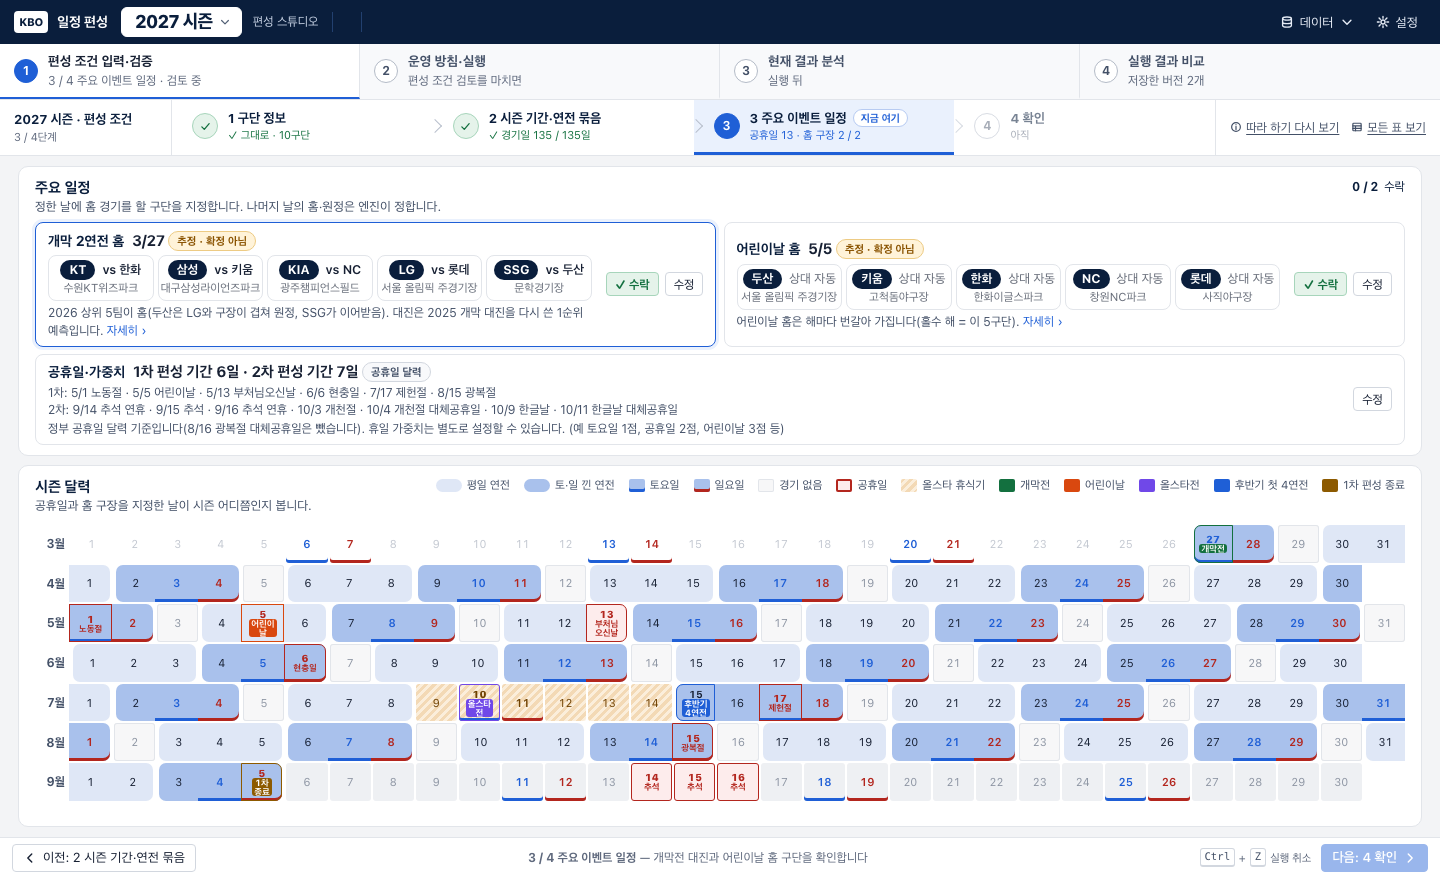
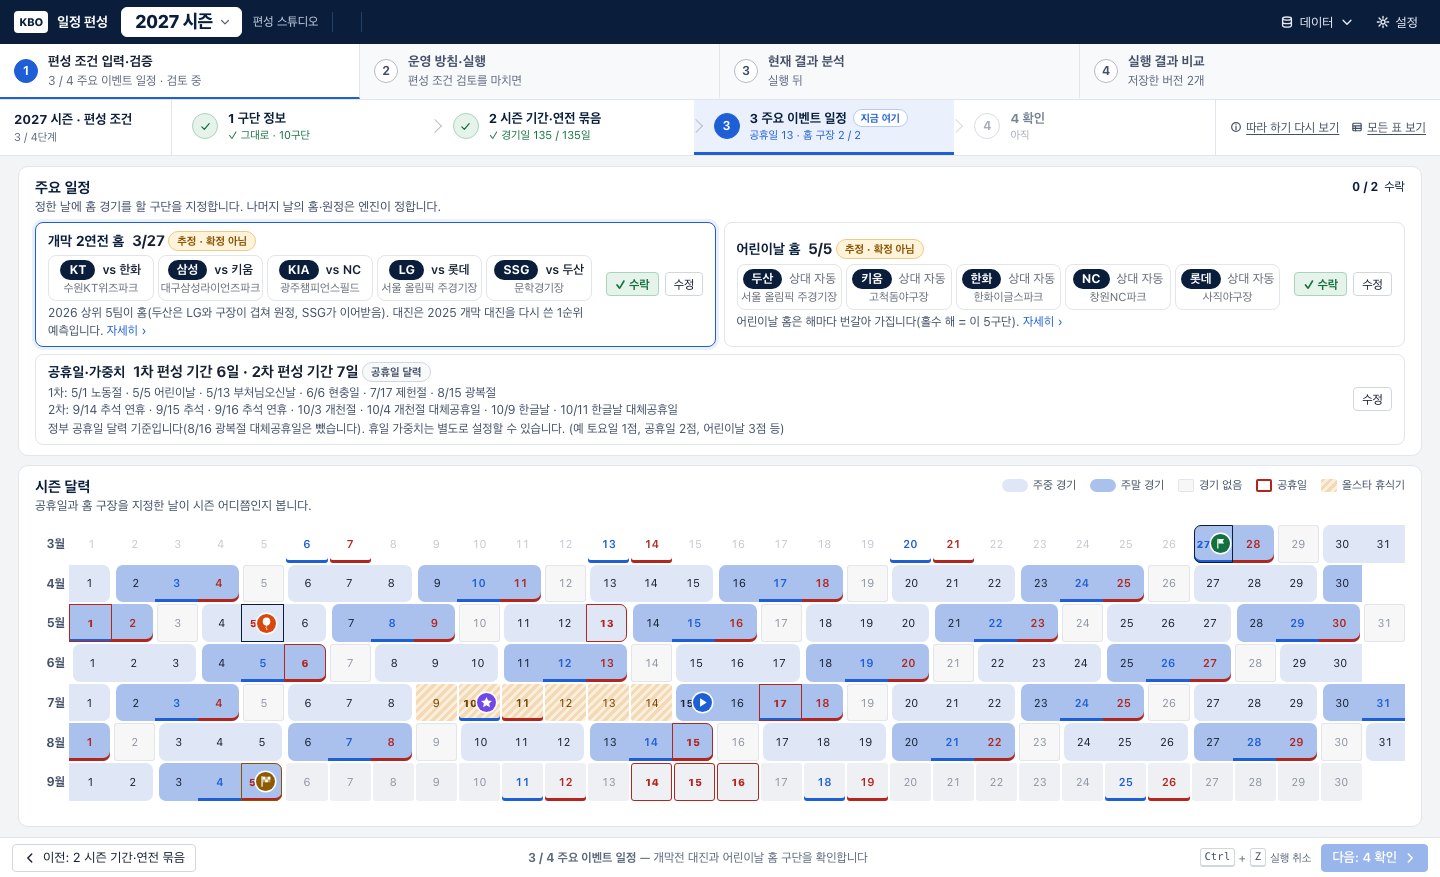
시즌 달력 범례 정리와 이벤트 그림 배지
- 연전 색 범례 이름: 「주중 경기」·「주말 경기」(달력 칸에 올렸을 때 글도 같게)
- 3단계·4 확인 달력 범례에서 토요일·일요일, 개막전·어린이날·올스타전·후반기 첫 4연전·1차 편성 종료를 뺌
- 대신 칸 안의 글자를 동그란 색 배지 그림으로: 개막전 깃발, 어린이날 풍선, 올스타전 별, 후반기 첫 4연전 ▶, 1차 편성 종료 체크무늬 깃발(이름은 칸에 올리면 나옴)
- 공휴일은 이름 글자 없이 빨간 테두리 + 빨간 숫자(연전 띠 색은 그대로)

diff --git a/ui/app/studio/season-calendar.js b/ui/app/studio/season-calendar.js
@@ -363,7 +363,15 @@
 
   // ───────── 가운데 달력 ─────────
   /** 달력 칸 글자: 세 글자까지는 한 줄, 넷 이상이면 두 줄(띄어쓰기가 있으면 거기서, 없으면 세 글자 뒤에서) */
-  const twoLines = (t) => { if (t.replace(/\s/g, '').length <= 3) return esc(t); const sp = t.indexOf(' '), k = sp > 0 ? sp : 3; return esc(t.slice(0, k)) + '<br>' + esc(t.slice(sp > 0 ? k + 1 : k)); };
+  // 3단계·4 확인 보기 달력의 이벤트 표시: 글자 대신 동그란 색 배지 안의 흰 그림(이름은 칸에 올리면 나온다). 공휴일은 그림 없이 빨간 칸
+  const MARK_SVG = {
+    'e-op': '<path d="M4 2h1.4v12H4z"/><path d="M5.4 2.5h7.1l-1.9 2.75 1.9 2.75H5.4z"/>', // 개막전 = 깃발
+    'e-ch': '<ellipse cx="8" cy="5.6" rx="4.6" ry="5"/><path d="M6.8 10.3h2.4L8 11.8z"/><path d="M8 11.8q-1.6 1.1 0 2.1t0 1.9" fill="none" stroke="currentColor" stroke-width="1.2"/>', // 어린이날 = 풍선
+    'e-as': '<path d="M8 1.2l2 4.3 4.7.5-3.5 3.2 1 4.6L8 11.5l-4.2 2.3 1-4.6L1.3 6l4.7-.5z"/>', // 올스타전 = 별
+    'e-4': '<path d="M5 2.8v10.4L13.2 8z"/>', // 후반기 첫 4연전 = 다시 시작(▶)
+    'e-end': '<path d="M3 1.5h1.5v13H3z"/><path d="M4.5 2h9.5v7H4.5z" fill-opacity=".4"/><path d="M4.5 2h3.2v3.5H4.5zm6.3 0H14v3.5h-3.2zM7.7 5.5h3.1V9H7.7z"/>', // 1차 편성 종료 = 체크무늬 결승 깃발
+  };
+  const markIcon = (mk) => (MARK_SVG[mk.c] ? '<i class="mk" role="img" aria-label="' + esc(mk.t) + '"><svg viewBox="0 0 16 16" aria-hidden="true">' + MARK_SVG[mk.c] + '</svg></i>' : '');
   /** view = 보기 전용(검토 화면 아래 달력): 누르고 끄는 칸이 아니고, 개막일·올스타 휴식기·1차 편성 종료일을 표시한다 */
   function calendarStrip(view) {
     const st = app().state, s = st.settings, y = S.seasonYear(), [m0, m1] = months();
@@ -399,7 +407,7 @@
           cls.push('game'); if (w === 0 || w === 6) cls.push('we');
           if (x.k === 0) cls.push('ss'); if (x.k === x.b.len - 1) cls.push('se'); if (x.wk) cls.push('wk');
           if (selSlot && selSlot.d === x.b.d) cls.push('sel');
-          tt.push((x.wk ? '토·일 낀 ' : '평일 ') + x.b.len + '연전 ' + (x.k + 1) + '일째');
+          tt.push((x.wk ? '주말 ' : '주중 ') + x.b.len + '연전 ' + (x.k + 1) + '일째');
         } else if (a != null && e1 != null && n >= a && n <= e1) { cls.push('rest'); tt.push(restDay(n) ? '휴식 요일' : '경기 없는 날'); }
         else if (a != null && e2 != null && n > e1 && n <= e2) { cls.push('re'); tt.push('재편성 기간'); }
         else cls.push(a == null ? 'pre' : 'off');
@@ -411,7 +419,7 @@
         const lab = !view && x && x.k === 0 ? '<i class="sl">' + x.b.len + '연전</i>' : ''; // 보기 전용은 칸이 작아 글자 없이 띠 모양(plan-flow.css 「연전 묶음 경계」)으로만 묶음을 보인다
         const mk = f3 ? mark.get(n) : null;
         if (mk) { cls.push('lab', mk.c); tt.push(mk.t); }
-        if (view) { h += '<span class="' + cls.join(' ') + '"' + (f3 && fs() === 3 ? ' data-act="pf-cal-day" data-d="' + n + '"' : '') + ' title="' + esc(tt.join(' · ')) + '">' + (mk ? '<b>' + d + '</b><i class="lb">' + twoLines(mk.t) + '</i>' : d + lab) + '</span>'; continue; }
+        if (view) { h += '<span class="' + cls.join(' ') + '"' + (f3 && fs() === 3 ? ' data-act="pf-cal-day" data-d="' + n + '"' : '') + ' title="' + esc(tt.join(' · ')) + '">' + (mk ? '<b>' + d + '</b>' + markIcon(mk) : d + lab) + '</span>'; continue; }
         h += '<span class="' + cls.join(' ') + '" role="gridcell" data-d="' + n + '"' + (x ? ' data-slot="' + x.b.i + '"' : '') + ' title="' + esc(tt.join(' · ')) + '">' + d + lab + '</span>';
       }
       h += '</div></div>';
@@ -433,7 +441,7 @@
   }
   function mainPane() {
     const st = app().state, y = S.seasonYear(), gd = S.gameDaysCheck(), h = CalendarGen.lengthHistogram(st.calendar), [m0, m1] = months(), f = fs();
-    const legend = f === 2 ? [['bnd', '평일 연전'], ['bnd wk', '토·일 낀 연전'], ['rest', '경기 없음'], ['hol', '공휴일(빨강)'], ['sat', '토요일(파랑)'], ['sel', '고른 묶음']] : [['bnd', '평일 연전'], ['bnd wk', '토·일 낀 연전'], ['hol', '공휴일(빨강)'], ['ev', '홈 구장 지정'], ['pick', '고른 날']];
+    const legend = f === 2 ? [['bnd', '주중 경기'], ['bnd wk', '주말 경기'], ['rest', '경기 없음'], ['hol', '공휴일(빨강)'], ['sat', '토요일(파랑)'], ['sel', '고른 묶음']] : [['bnd', '주중 경기'], ['bnd wk', '주말 경기'], ['hol', '공휴일(빨강)'], ['ev', '홈 구장 지정'], ['pick', '고른 날']];
     const tips = f === 2
       ? '<span>' + icon('move') + '날짜를 <b>끌면</b> 연전 묶음(2·3·4연전)</span><span>' + icon('grid') + '묶음을 <b>누르면</b> 연전 수 바꾸기 · 나누기 · 지우기</span>'
       : '<span>' + icon('target') + '날을 <b>누르면</b> 홈 구장 지정</span><span>빨간 동그라미 = 공휴일(가중치는 왼쪽 표)</span><span>연전 묶음은 2단계에서 고칩니다</span>';
@@ -461,8 +469,8 @@
   /** 검토 화면(plan-flow.js) 아래에 두는 보기 전용 달력. f3 = 주요 이벤트 일정 단계·4 확인(이벤트·공휴일 이름 표시. 날을 눌러 고치는 것은 3단계만) */
   S.seasonStripView = function (f3, tail) {
     const legend = f3
-      ? [['game bnd', '평일 연전'], ['game bnd wk', '토·일 낀 연전'], ['game wk sat', '토요일'], ['game wk sun', '일요일'], ['rest', '경기 없음'], ['lab e-hol', '공휴일'], ['as', '올스타 휴식기'], ['lab e-op', '개막전'], ['lab e-ch', '어린이날'], ['lab e-as', '올스타전'], ['lab e-4', '후반기 첫 4연전'], ['lab e-end', '1차 편성 종료']]
-      : [['game bnd', '평일 연전'], ['game bnd wk', '토·일 낀 연전'], ['rest', '경기 없음'], ['hol', '공휴일'], ['op', '개막일'], ['as', '올스타 휴식기'], ['end', '1차 편성 종료']];
+      ? [['game bnd', '주중 경기'], ['game bnd wk', '주말 경기'], ['rest', '경기 없음'], ['lab e-hol', '공휴일'], ['as', '올스타 휴식기']] // 이벤트(개막전·어린이날·올스타전·후반기 첫 4연전·1차 편성 종료)는 칸 안 그림 배지로, 범례 없이
+      : [['game bnd', '주중 경기'], ['game bnd wk', '주말 경기'], ['rest', '경기 없음'], ['hol', '공휴일'], ['op', '개막일'], ['as', '올스타 휴식기'], ['end', '1차 편성 종료']];
     return '<div class="pf-cal"><div class="pf-cal-leg">' + legend.map(([c, t]) => '<span><i class="sd ' + c + '"></i>' + t + '</span>').join('') + (tail || '') + '</div>' + calendarStrip(true) + '</div>';
   };
   /** 검토 화면(plan-flow.js) 줄 안에서 펼치는 입력칸. key: opening · rest · allstar · initialEnd */
@@ -472,7 +480,7 @@
   };
   /** 검토 화면 아래 달력에서 바로 고칠 때: 수정 화면과 같은 달력(끌면 묶음, 묶음을 누르면 바꾸기·나누기·지우기) */
   S.seasonStripLive = function (tail) {
-    const legend = [['game bnd', '평일 연전'], ['game bnd wk', '토·일 낀 연전'], ['rest', '경기 없음'], ['hol', '공휴일']];
+    const legend = [['game bnd', '주중 경기'], ['game bnd wk', '주말 경기'], ['rest', '경기 없음'], ['hol', '공휴일']];
     S.afterRender(placePopover);
     return '<div class="pf-cal live"><div class="pf-cal-leg">' + legend.map(([c, t]) => '<span><i class="sd ' + c + '"></i>' + t + '</span>').join('') +
       '<span class="pf-cal-tip">' + icon('move') + '날짜를 <b>끌면</b> 연전 묶음 · 묶음을 <b>누르면</b> 바꾸기·나누기·지우기<span id="scDragHint" class="sc-drag-hint"></span></span>' + (tail || '') + '</div>' +

diff --git a/ui/app/studio/plan-flow.css b/ui/app/studio/plan-flow.css
@@ -422,20 +422,20 @@ body.pf .ck-card { margin: 0; flex: 1 0 auto; display: flex; flex-direction: col
 .pf-cal-leg .pf-cal-btn { margin-left: auto; }
 .pf-cal.live .pf-cal-tip { margin-left: 12px; }
 
-/* 3단계(주요 이벤트 일정) 달력: 이벤트 날은 칸 안에 글자 · 공휴일은 빨간 테두리와 이름 · 토(파랑)·일(빨강)은 칸 아래 띠 */
-.pf-strip.f3 { --cal-row: clamp(34px, 3.4vh, 42px); } /* 숫자 + 두 줄 글자 */
+/* 3단계(주요 이벤트 일정)·4 확인 달력: 이벤트 날은 칸 안에 그림 배지(이름은 칸에 올리면) · 공휴일은 빨간 테두리 · 토(파랑)·일(빨강)은 칸 아래 띠 */
+.pf-strip.f3 { --cal-row: clamp(34px, 3.4vh, 42px); } /* 숫자 + 그림 배지 */
 .pf-strip.f3 .sd.sat, .pf-cal-leg .sd.sat { box-shadow: inset 0 -3px 0 var(--blue); }
 .pf-strip.f3 .sd.sun, .pf-cal-leg .sd.sun { box-shadow: inset 0 -3px 0 var(--bad); }
 .pf-strip.f3 .sd.hol::after { display: none; }
 .pf-strip.f3 .sd.lab { display: flex; flex-direction: column; align-items: center; justify-content: center; gap: 1px; line-height: 1.05; padding: 0 1px; overflow: hidden; }
 .pf-strip.f3 .sd.lab b { font-size: 10.5px; }
-.pf-strip.f3 .sd .lb { font-style: normal; font-size: 9px; font-weight: 700; line-height: 1.1; text-align: center; white-space: nowrap; max-width: 100%; overflow: hidden; border-radius: 3px; padding: 0 2px; color: #fff; background: var(--ev); }
-.pf-strip.f3 .sd.lab { outline: 2px solid var(--ev); outline-offset: -2px; }
-.pf-strip.f3 .sd.e-hol { --ev: var(--bad); background: #FDECEC; }
-.pf-strip.f3 .sd.e-hol .lb { color: var(--bad); background: none; padding: 0; }
+.pf-strip.f3 .sd.lab:has(.mk) { flex-direction: row; gap: 3px; } /* 숫자 옆에 배지 */
+.pf-strip.f3 .sd .mk { display: grid; place-items: center; width: 19px; height: 19px; border-radius: 50%; background: var(--ev); color: #fff; box-shadow: 0 0 0 1.5px #fff; flex: none; }
+.pf-strip.f3 .sd .mk svg { width: 13px; height: 13px; fill: currentColor; }
+.pf-strip.f3 .sd.e-hol { outline: 2px solid var(--bad); outline-offset: -2px; } /* 공휴일 = 빨간 테두리 + 빨간 숫자(띠 색은 그대로) */
 .e-op { --ev: #13703F; } .e-ch { --ev: #D9480F; } .e-as { --ev: #7048E8; } .e-4 { --ev: #1F5FD6; } .e-end { --ev: #8D5A00; } .e-hol { --ev: var(--bad); }
 .pf-cal-leg i.sd.lab { background: var(--ev); box-shadow: none; }
-.pf-cal-leg i.sd.e-hol { background: #FDECEC; box-shadow: inset 0 0 0 2px var(--bad); }
+.pf-cal-leg i.sd.e-hol { background: #fff; box-shadow: inset 0 0 0 2px var(--bad); }
 
 /* 편성 조건 1~4단계(2027): 모두 2단계 모양(회색 바탕·여백 · 흰 구역 · 머리 줄 = 굵은 제목 / 오른쪽 개수 / 밑에 한 줄 설명).
    노트북(창 안쪽 1440×790)에서 스크롤 없이: 여백은 낮은 창에서 줄고, 남는 높이는 아래 시즌 달력이 받는다(큰 창은 --pf-zoom으로 통째로 키움) */
@@ -450,11 +450,10 @@ body.pf .ck-card { margin: 0; flex: 1 0 auto; display: flex; flex-direction: col
 /* 아래 시즌 달력: 칸 높이 노트북 15px(2단계) · 29px(3단계·4 확인, 숫자 + 두 줄 글자) */
 .stepview.fl .pf-cal { --cal-row: clamp(15px, 1.9vh, 30px); gap: 4px; margin-top: 4px; }
 .stepview.fl .pf-cal-leg .btn.sm { height: 20px; }
-/* 3단계·4 확인: 줄 사이를 2px로 줄여 칸을 29px로. 글자 칸은 테두리를 1.5px로(두 줄 글자의 아래가 테두리에 가리지 않게) */
+/* 3단계·4 확인: 줄 사이를 2px로 줄여 칸을 29px로. 공휴일 칸 테두리는 1.5px */
 .stepview.fl .pf-strip.f3 { --cal-row: clamp(29px, 3.2vh, 42px); row-gap: 2px; min-height: calc(var(--m, 7) * (var(--cal-row) + 2px)); }
 .stepview.fl .pf-strip.f3 .sd.lab { gap: 0; line-height: 1; outline-width: 1.5px; outline-offset: -1.5px; }
 .stepview.fl .pf-strip.f3 .sd.lab b { font-size: 10px; line-height: 1; }
-.stepview.fl .pf-strip.f3 .sd .lb { line-height: 1; }
 /* 3단계·4 확인 달력: 범례를 구역 제목 줄 오른쪽에(이 구역 제목 줄에는 개수가 없다) */
 .stepview.fl .pf-sec.pf-fill { position: relative; }
 .stepview.fl .pf-sec > .pf-cal:has(> .pf-strip.f3) > .pf-cal-leg { position: absolute; top: clamp(8px, 1.15vh, 18px); right: 16px; height: 20px; align-items: center; }
